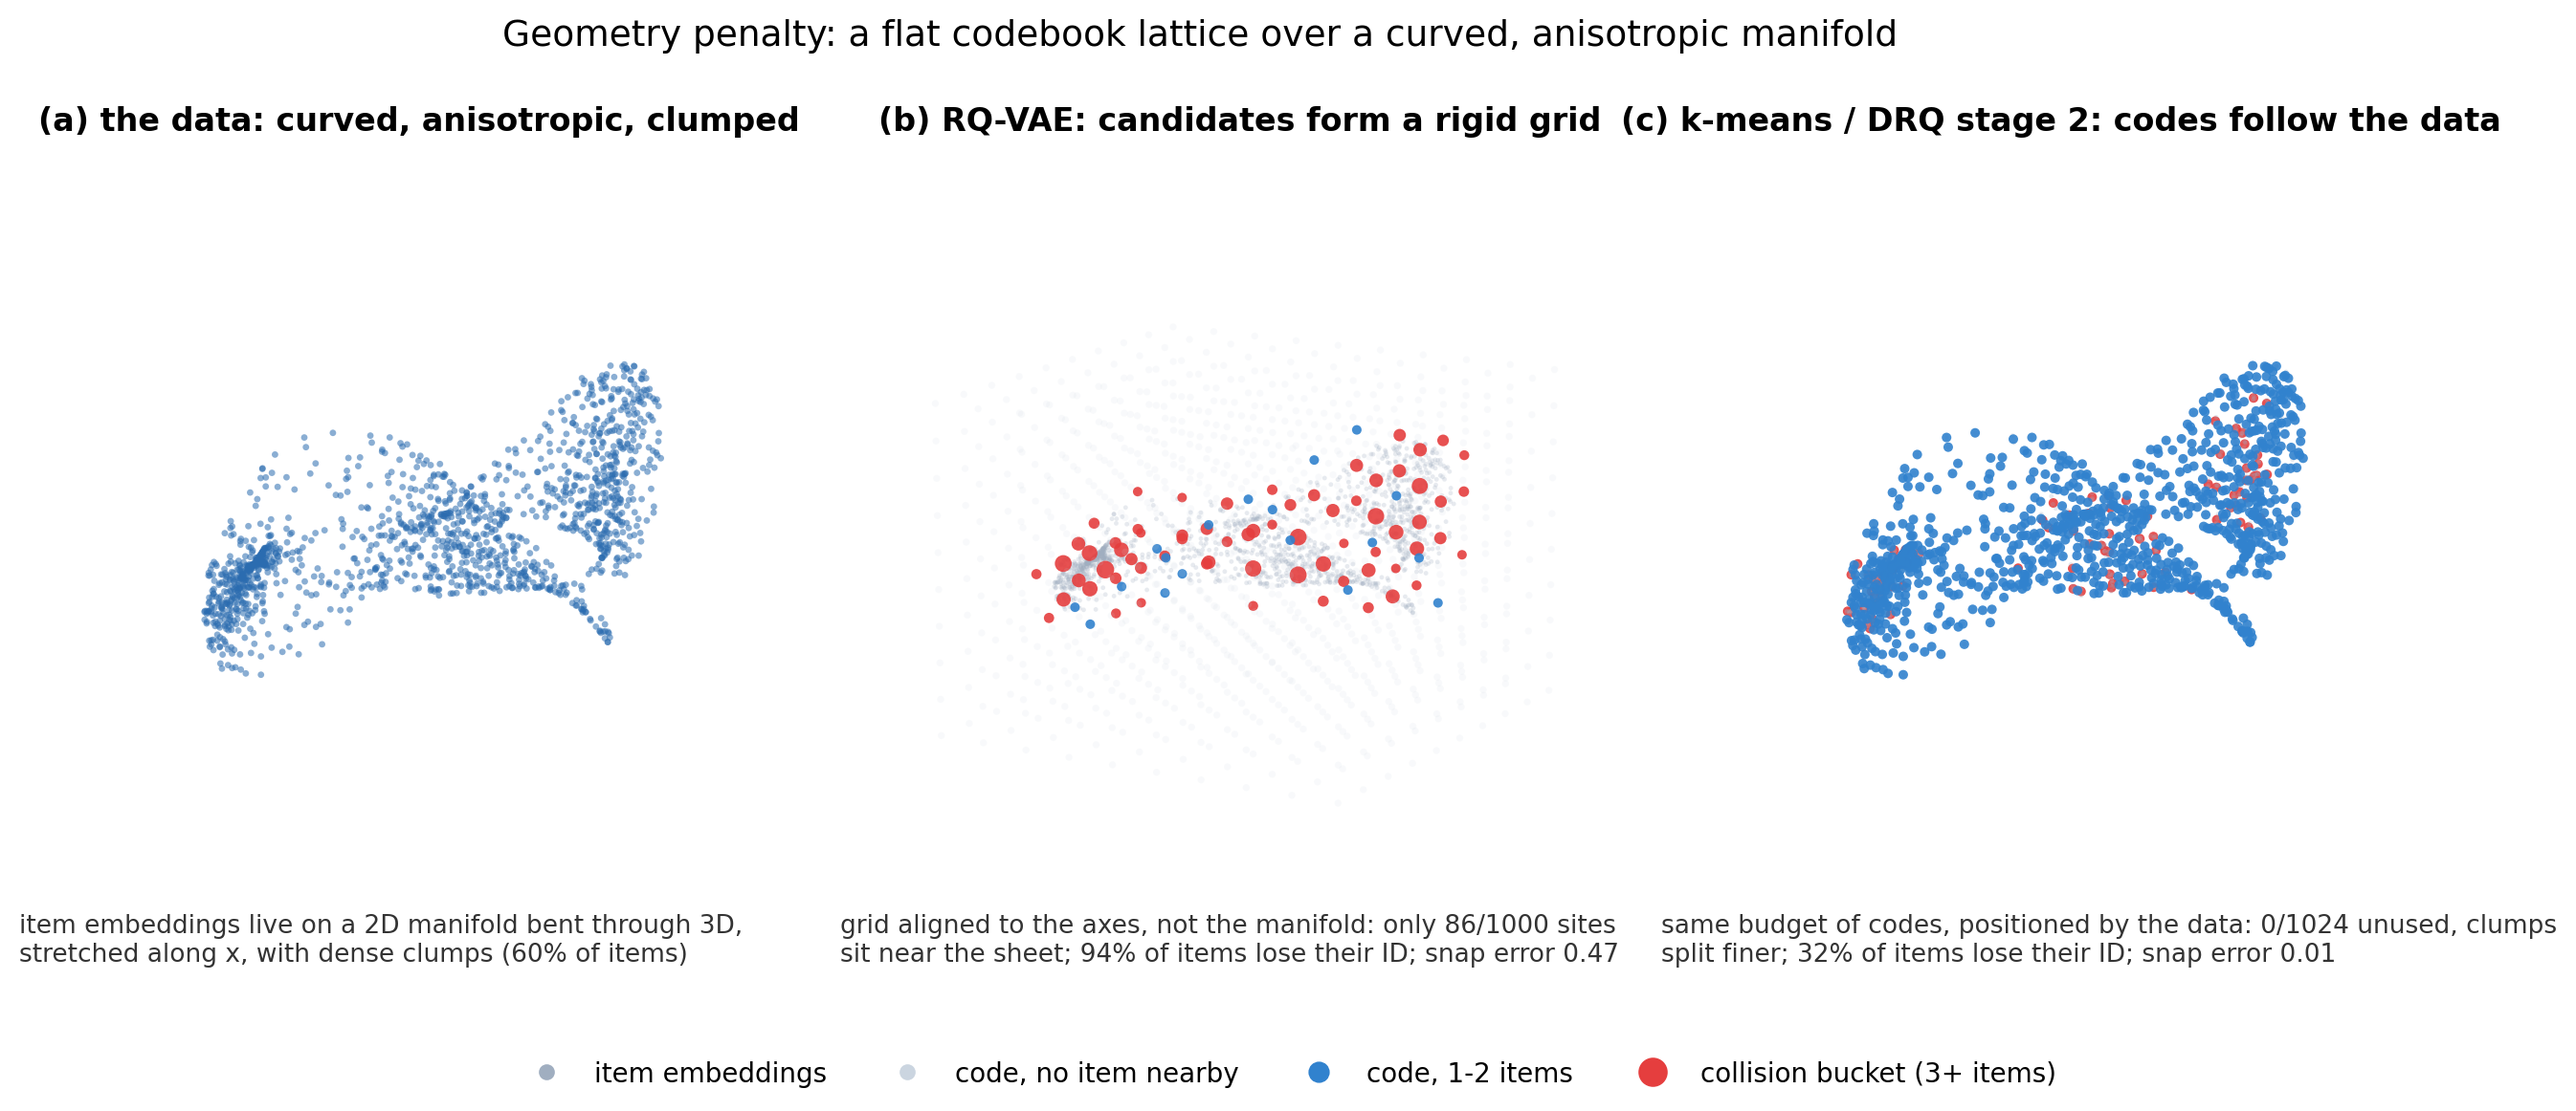
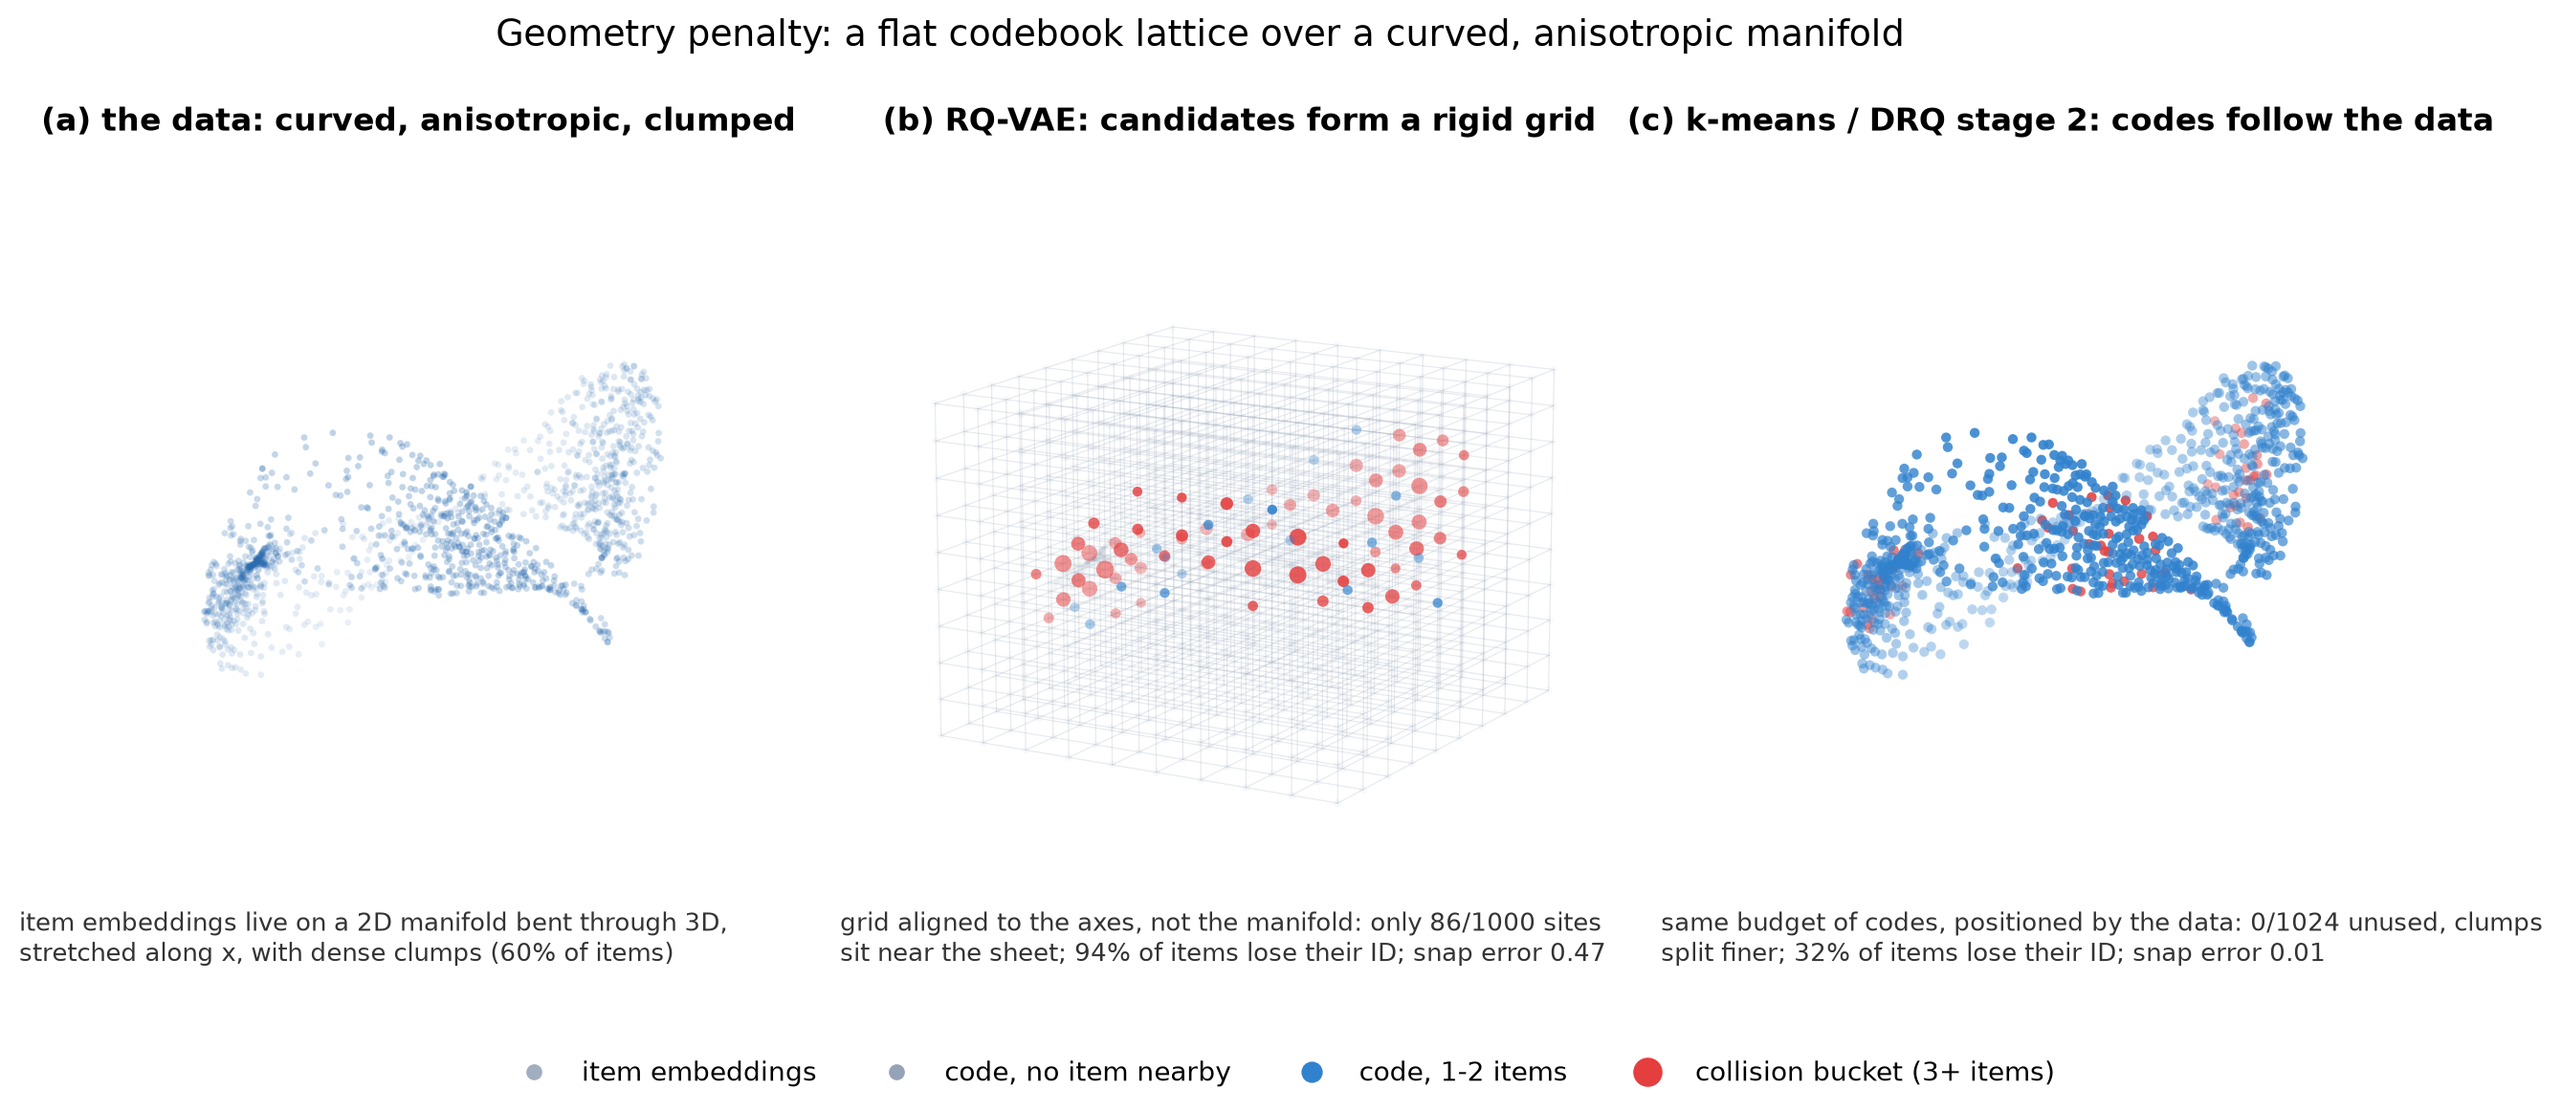
updated grid

diff --git a/docs/figs/manifold_vs_grid_3d.py b/docs/figs/manifold_vs_grid_3d.py
@@ -59,6 +59,21 @@ def lattice_candidates(k):
     spacing = np.mean([axes[d][1] - axes[d][0] for d in range(3)])
     return G, spacing, axes
 
+
+def draw_grid_lines(ax, axes, color="#94a3b8", lw=0.45, alpha=0.22):
+    """Draw orthogonal wireframe grid lines to emphasize the rigid 3D lattice."""
+    xs, ys, zs = axes
+    for x in xs:
+        for y in ys:
+            ax.plot([x, x], [y, y], [zs[0], zs[-1]], color=color, lw=lw, alpha=alpha, zorder=0)
+    for x in xs:
+        for z in zs:
+            ax.plot([x, x], [ys[0], ys[-1]], [z, z], color=color, lw=lw, alpha=alpha, zorder=0)
+    for y in ys:
+        for z in zs:
+            ax.plot([xs[0], xs[-1]], [y, y], [z, z], color=color, lw=lw, alpha=alpha, zorder=0)
+
+
 def nearest(points, centers):
     d2 = ((points[:, None, :] - centers[None, :, :]) ** 2).sum(-1)
     return d2.argmin(1), np.sqrt(d2.min(1))
@@ -69,7 +84,7 @@ def stats(labels, n_codes):
     return counts, (counts - 1).clip(min=0).sum() / len(labels)
 
 
-G, spacing = lattice_candidates(N_CODES)
+G, spacing, axes = lattice_candidates(N_CODES)
 K = KMeans(N_CODES, n_init=3, random_state=0, max_iter=300, tol=1e-2).fit(
     X
 ).cluster_centers_
@@ -100,10 +115,10 @@ def pts(ax, P, c, s, a):
 
 
 def codes(ax, counts, C):
-    pts(ax, C[counts == 0], "#cbd5e0", 7, 0.12)
-    pts(ax, C[(counts >= 1) & (counts <= 2)], "#3182ce", 13, 0.9)
+    pts(ax, C[counts == 0], "#94a3b8", 8, 0.28)
+    pts(ax, C[(counts >= 1) & (counts <= 2)], "#3182ce", 14, 0.95)
     hot = counts > 2
-    pts(ax, C[hot], "#e53e3e", 6 + 4 * np.sqrt(counts[hot]), 0.9)
+    pts(ax, C[hot], "#e53e3e", 7 + 4 * np.sqrt(counts[hot]), 0.95)
 
 
 ax = panel("(a) the data: curved, anisotropic, clumped",
@@ -114,6 +129,7 @@ pts(ax, X, "#2b6cb0", 6, 0.55)
 ax = panel("(b) RQ-VAE: candidates form a rigid grid",
            f"grid aligned to the axes, not the manifold: only {reachable}/{len(G)} sites\n"
            f"sit near the sheet; {g_collide*100:.0f}% of items lose their ID; snap error {gerr.mean():.2f}")
+draw_grid_lines(ax, axes)
 pts(ax, X, "#a0aec0", 3, 0.25)
 codes(ax, g_counts, G)
 
@@ -125,7 +141,7 @@ codes(ax, k_counts, K)
 
 handles = [
     Line2D([], [], marker="o", ls="", ms=5, color="#a0aec0", label="item embeddings"),
-    Line2D([], [], marker="o", ls="", ms=5, color="#cbd5e0", label="code, no item nearby"),
+    Line2D([], [], marker="o", ls="", ms=5, color="#94a3b8", label="code, no item nearby"),
     Line2D([], [], marker="o", ls="", ms=7, color="#3182ce", label="code, 1-2 items"),
     Line2D([], [], marker="o", ls="", ms=10, color="#e53e3e", label="collision bucket (3+ items)"),
 ]
